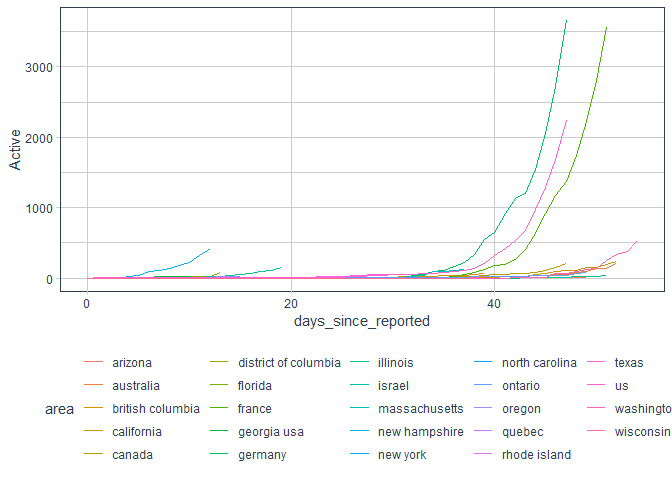
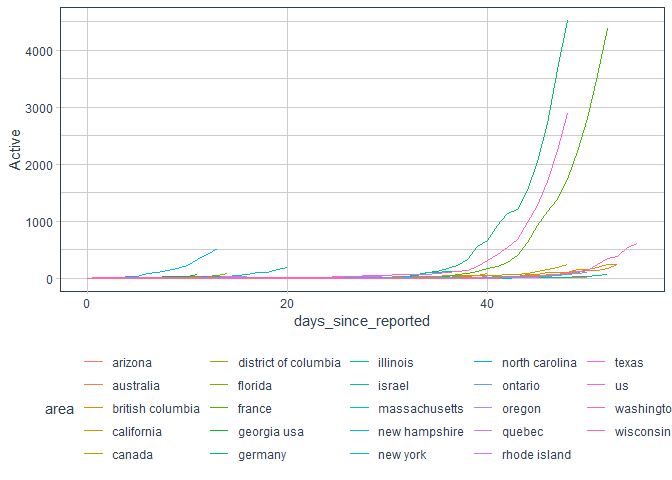
updated NYC cases 20200315 0900

diff --git a/README.md b/README.md
@@ -7,6 +7,7 @@ Modeling Scenarios for Covid-19
 library(tidyverse)
 library(tidyquant)
 library(crayon)
+library(kableExtra)
 
 theme_set(theme_tq())
 ```
@@ -19,7 +20,7 @@ cases_data <- suppressMessages(read_csv("http://hgis.uw.edu/virus/assets/virus.c
 message("Data from ", min(cases_data$datetime)," to ",max(cases_data$datetime))
 ```
 
-    ## Data from 2020-01-21 to 2020-03-14
+    ## Data from 2020-01-21 to 2020-03-15
 
 ``` r
 max_date <- 
@@ -43,13 +44,13 @@ ny_cases <-
 message("Number of confirmed NY cases as of ",max_date,": ", ny_cases$Confirmed,"\n")
 ```
 
-    ## Number of confirmed NY cases as of 2020-03-14: 421
+    ## Number of confirmed NY cases as of 2020-03-15: 524
 
 ``` r
 message("Number of active NY cases as of ",max_date,": ",ny_cases$Active)
 ```
 
-    ## Number of active NY cases as of 2020-03-14: 421
+    ## Number of active NY cases as of 2020-03-15: 522
 
 # Names by country
 
@@ -137,6 +138,8 @@ NYC_reports <-
           , 5, 100 # Thursday 3/12
           , 6, 170 # Friday 3/13
           , 7, 213 # Saturday 3/14
+          , 8, 269 # Sunday 3/15 as of 9:00 am
+
   ) %>% 
   mutate(area = "NYC", Country = "US")
 
@@ -164,6 +167,220 @@ NYC_vs_China_cases
 
 ![](README_files/figure-gfm/unnamed-chunk-5-1.png)<!-- -->
 
+``` r
+NYC_reports %>%
+  kable() %>%
+  kable_styling(bootstrap_options = "striped", full_width = F)
+```
+
+<table class="table table-striped" style="width: auto !important; margin-left: auto; margin-right: auto;">
+
+<thead>
+
+<tr>
+
+<th style="text-align:right;">
+
+days\_since\_reported
+
+</th>
+
+<th style="text-align:right;">
+
+Confirmed
+
+</th>
+
+<th style="text-align:left;">
+
+area
+
+</th>
+
+<th style="text-align:left;">
+
+Country
+
+</th>
+
+</tr>
+
+</thead>
+
+<tbody>
+
+<tr>
+
+<td style="text-align:right;">
+
+1
+
+</td>
+
+<td style="text-align:right;">
+
+0
+
+</td>
+
+<td style="text-align:left;">
+
+NYC
+
+</td>
+
+<td style="text-align:left;">
+
+US
+
+</td>
+
+</tr>
+
+<tr>
+
+<td style="text-align:right;">
+
+4
+
+</td>
+
+<td style="text-align:right;">
+
+43
+
+</td>
+
+<td style="text-align:left;">
+
+NYC
+
+</td>
+
+<td style="text-align:left;">
+
+US
+
+</td>
+
+</tr>
+
+<tr>
+
+<td style="text-align:right;">
+
+5
+
+</td>
+
+<td style="text-align:right;">
+
+100
+
+</td>
+
+<td style="text-align:left;">
+
+NYC
+
+</td>
+
+<td style="text-align:left;">
+
+US
+
+</td>
+
+</tr>
+
+<tr>
+
+<td style="text-align:right;">
+
+6
+
+</td>
+
+<td style="text-align:right;">
+
+170
+
+</td>
+
+<td style="text-align:left;">
+
+NYC
+
+</td>
+
+<td style="text-align:left;">
+
+US
+
+</td>
+
+</tr>
+
+<tr>
+
+<td style="text-align:right;">
+
+7
+
+</td>
+
+<td style="text-align:right;">
+
+213
+
+</td>
+
+<td style="text-align:left;">
+
+NYC
+
+</td>
+
+<td style="text-align:left;">
+
+US
+
+</td>
+
+</tr>
+
+<tr>
+
+<td style="text-align:right;">
+
+8
+
+</td>
+
+<td style="text-align:right;">
+
+269
+
+</td>
+
+<td style="text-align:left;">
+
+NYC
+
+</td>
+
+<td style="text-align:left;">
+
+US
+
+</td>
+
+</tr>
+
+</tbody>
+
+</table>
+
 # Days since reported
 
 ``` r
@@ -186,7 +403,7 @@ processed %>%
   geom_line()
 ```
 
-![](README_files/figure-gfm/unnamed-chunk-6-1.png)<!-- -->
+![](README_files/figure-gfm/unnamed-chunk-7-1.png)<!-- -->
 
 # US
 
@@ -242,7 +459,7 @@ not_na_processed <-
 country_model <- function(data){
   loess(Active~days_since_reported
         , data = data
-        , control = loess.control(surface = "direct")
+        #, control = loess.control(surface = "direct")
   )    
 }
 
@@ -268,6 +485,15 @@ model_china_ex_wuhan <- not_na_processed %>%
   filter(Country=='China', area != "hubei") %>% 
   country_model()
 
+model_france <- not_na_processed %>% 
+  filter(Country=='france') %>% 
+  country_model()
+
+model_germany <- not_na_processed %>% 
+  filter(Country=='germany') %>% 
+  country_model()
+
+
 actual_nyc <- 
   not_na_processed %>% 
   filter(area=="new york") %>% 
@@ -288,9 +514,15 @@ not_na_processed %>%
   ungroup() %>% 
   data_grid(area, days_since_reported) %>% 
   filter(area=="new york") %>% 
+  
+  
   add_predictions(model_all, var = "world model") %>%
   add_predictions(model_japan, var = "japan model") %>%
   add_predictions(model_china_ex_wuhan, var = "china model") %>%
+  add_predictions(model_france, var = "france model") %>%
+  add_predictions(model_germany, var = "germany model") %>%
+
+    
   gather(model, prediction, -area, -days_since_reported) %>% 
   ggplot()+
   aes(days_since_reported, y = prediction, color = model)+
